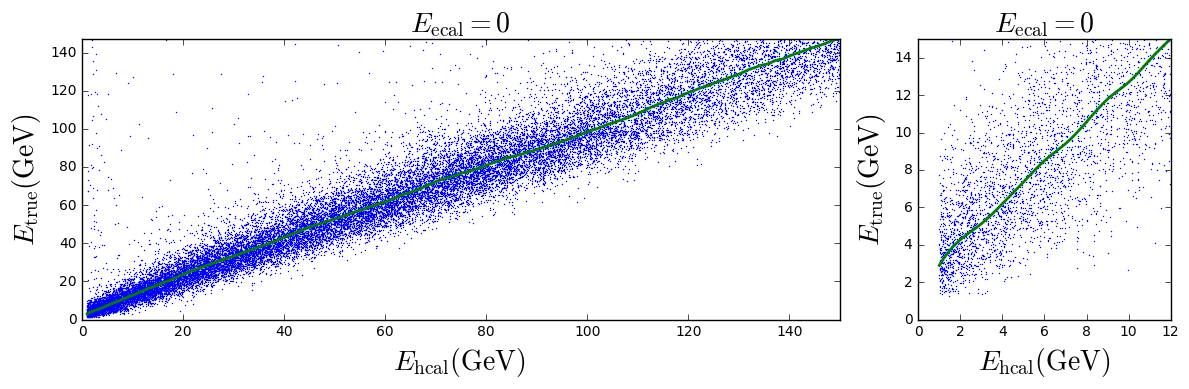
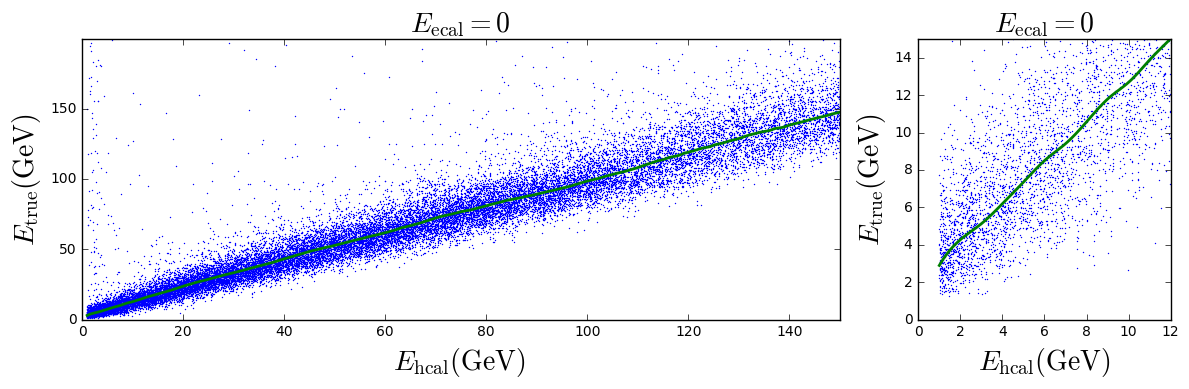
calibration curve plot

diff --git a/pfcalibration/usualplots.py b/pfcalibration/usualplots.py
@@ -34,7 +34,7 @@ def plotCalibrationCurve(calib):
     plt.xlabel(r"$E_{\rm hcal} \rm{(GeV)}$ ",fontsize=20)
     plt.ylabel(r"$E_{\rm true} \rm{(GeV)}$",fontsize=20)
     plt.title(r"$E_{\rm ecal} = 0$",fontsize=20)
-    plt.axis([0,max(h),0,max(t)])
+    plt.axis([0,max(h),0,max(true_train)])
     plt.subplot(gs[1])
     plt.plot(hcal_train,true_train,'.',markersize=1)
     plt.plot(h,t,lw=2)
